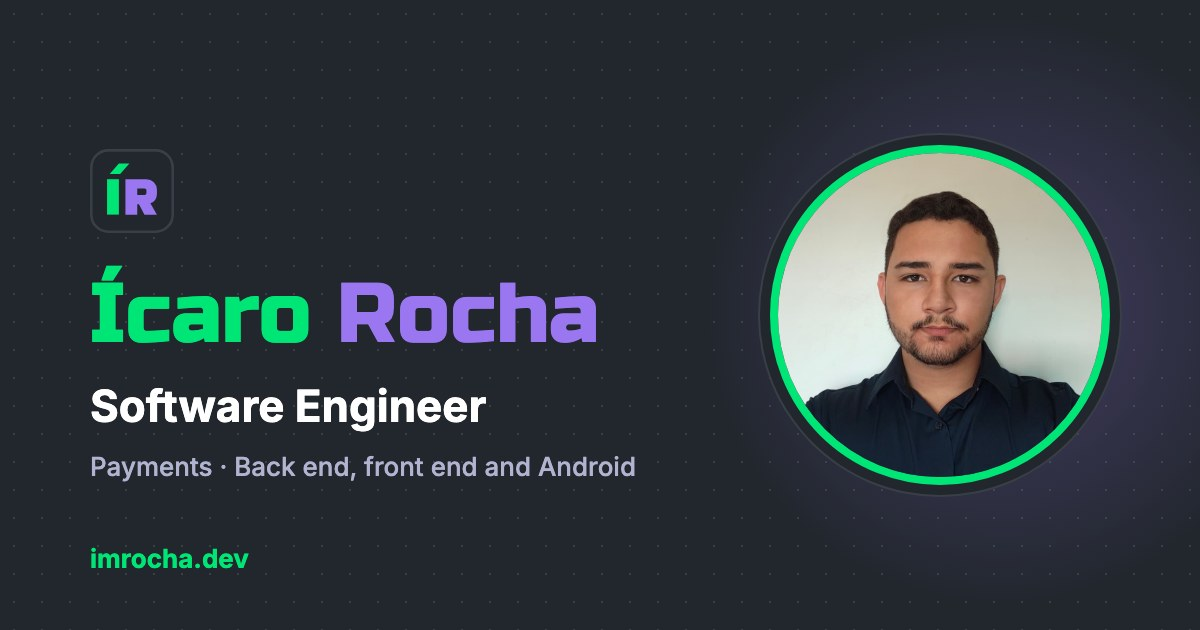
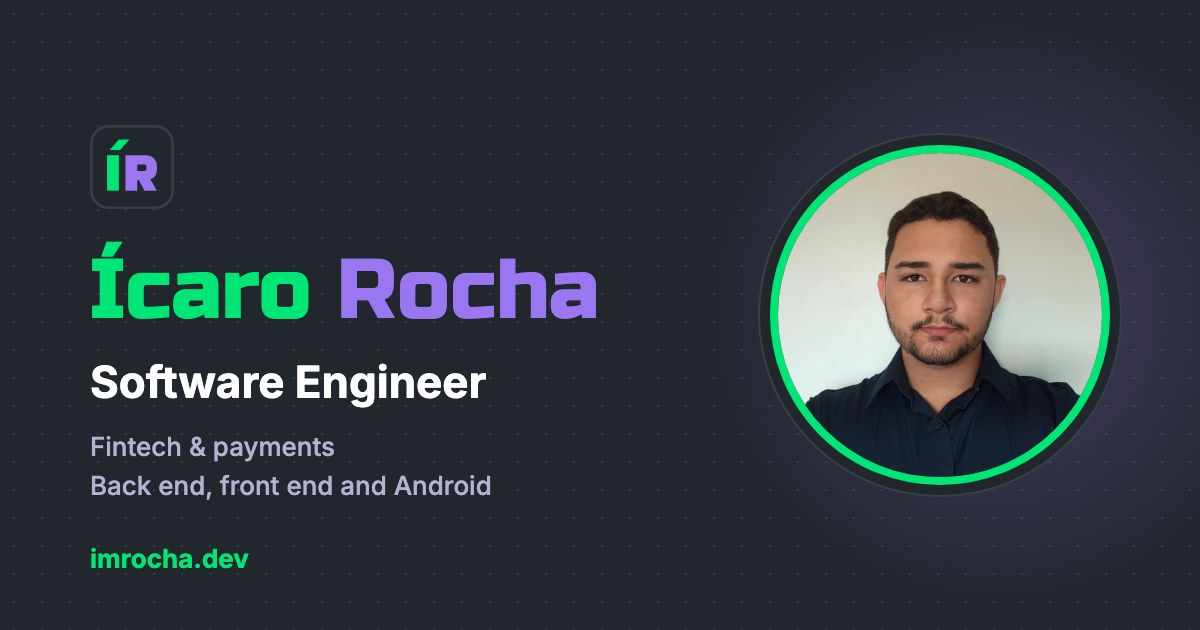
feat: mention fintech across hero, about, skills and link previews

Changed region(s): [[0.0617, 0.573, 0.555, 0.7841], [0.0617, 0.3921, 0.5242, 0.5429], [0.0617, 0.2111, 0.1542, 0.3619]]

diff --git a/server/plugins/seo.ts b/server/plugins/seo.ts
@@ -31,7 +31,7 @@ const TEXT = {
   pt: {
     title: "Ícaro Rocha (Pato) · Engenheiro de Software",
     description:
-      "Engenheiro de software no mercado de meios de pagamento. Back-end com Node.js e NestJS, front-end com Vue e Nuxt e apps Android com Kotlin. Veja meus projetos.",
+      "Engenheiro de software em fintech e meios de pagamento. Back-end com Node.js e NestJS, front-end com Vue e Nuxt e apps Android com Kotlin. Veja meus projetos.",
     jobTitle: "Engenheiro de Software",
     blogTitle: "Blog · Ícaro Rocha",
     blogDescription:
@@ -41,7 +41,7 @@ const TEXT = {
   en: {
     title: "Ícaro Rocha (Pato) · Software Engineer",
     description:
-      "Software engineer working in payments. Back end with Node.js and NestJS, front end with Vue and Nuxt, and Android apps with Kotlin. Check out my projects.",
+      "Software engineer in fintech and payments. Back end with Node.js and NestJS, front end with Vue and Nuxt, and Android apps with Kotlin. Check out my projects.",
     jobTitle: "Software Engineer",
     blogTitle: "Blog · Ícaro Rocha",
     blogDescription:
